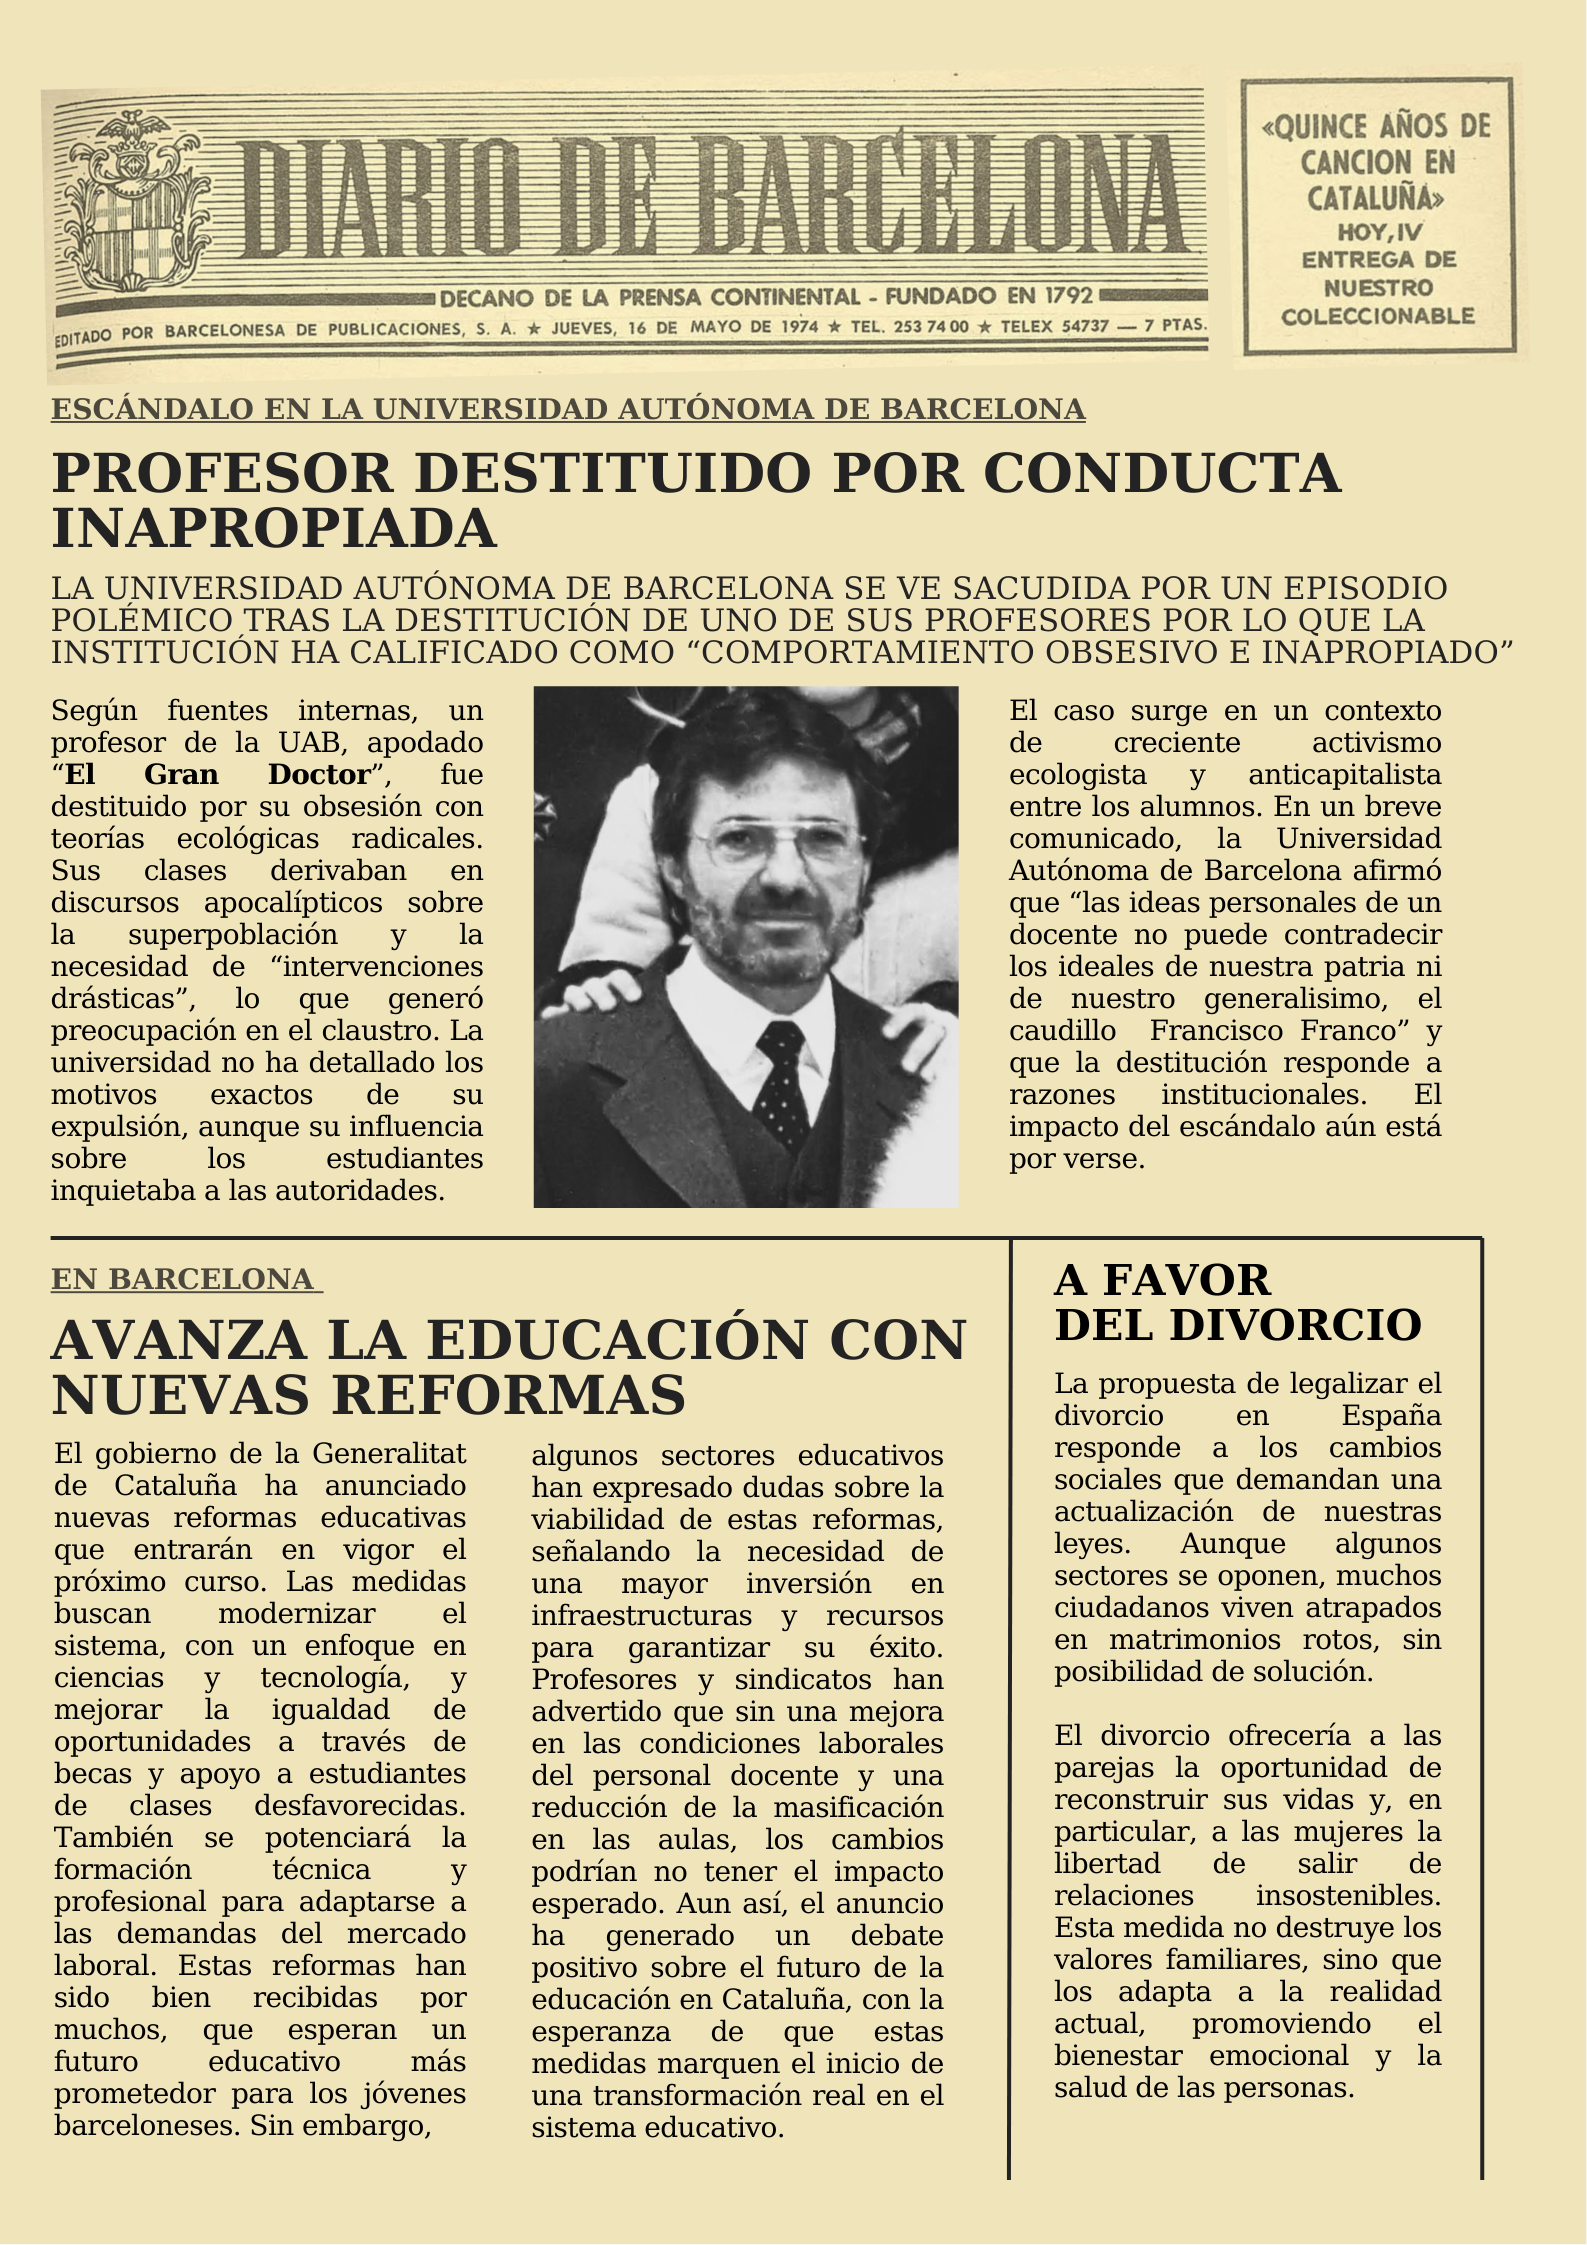
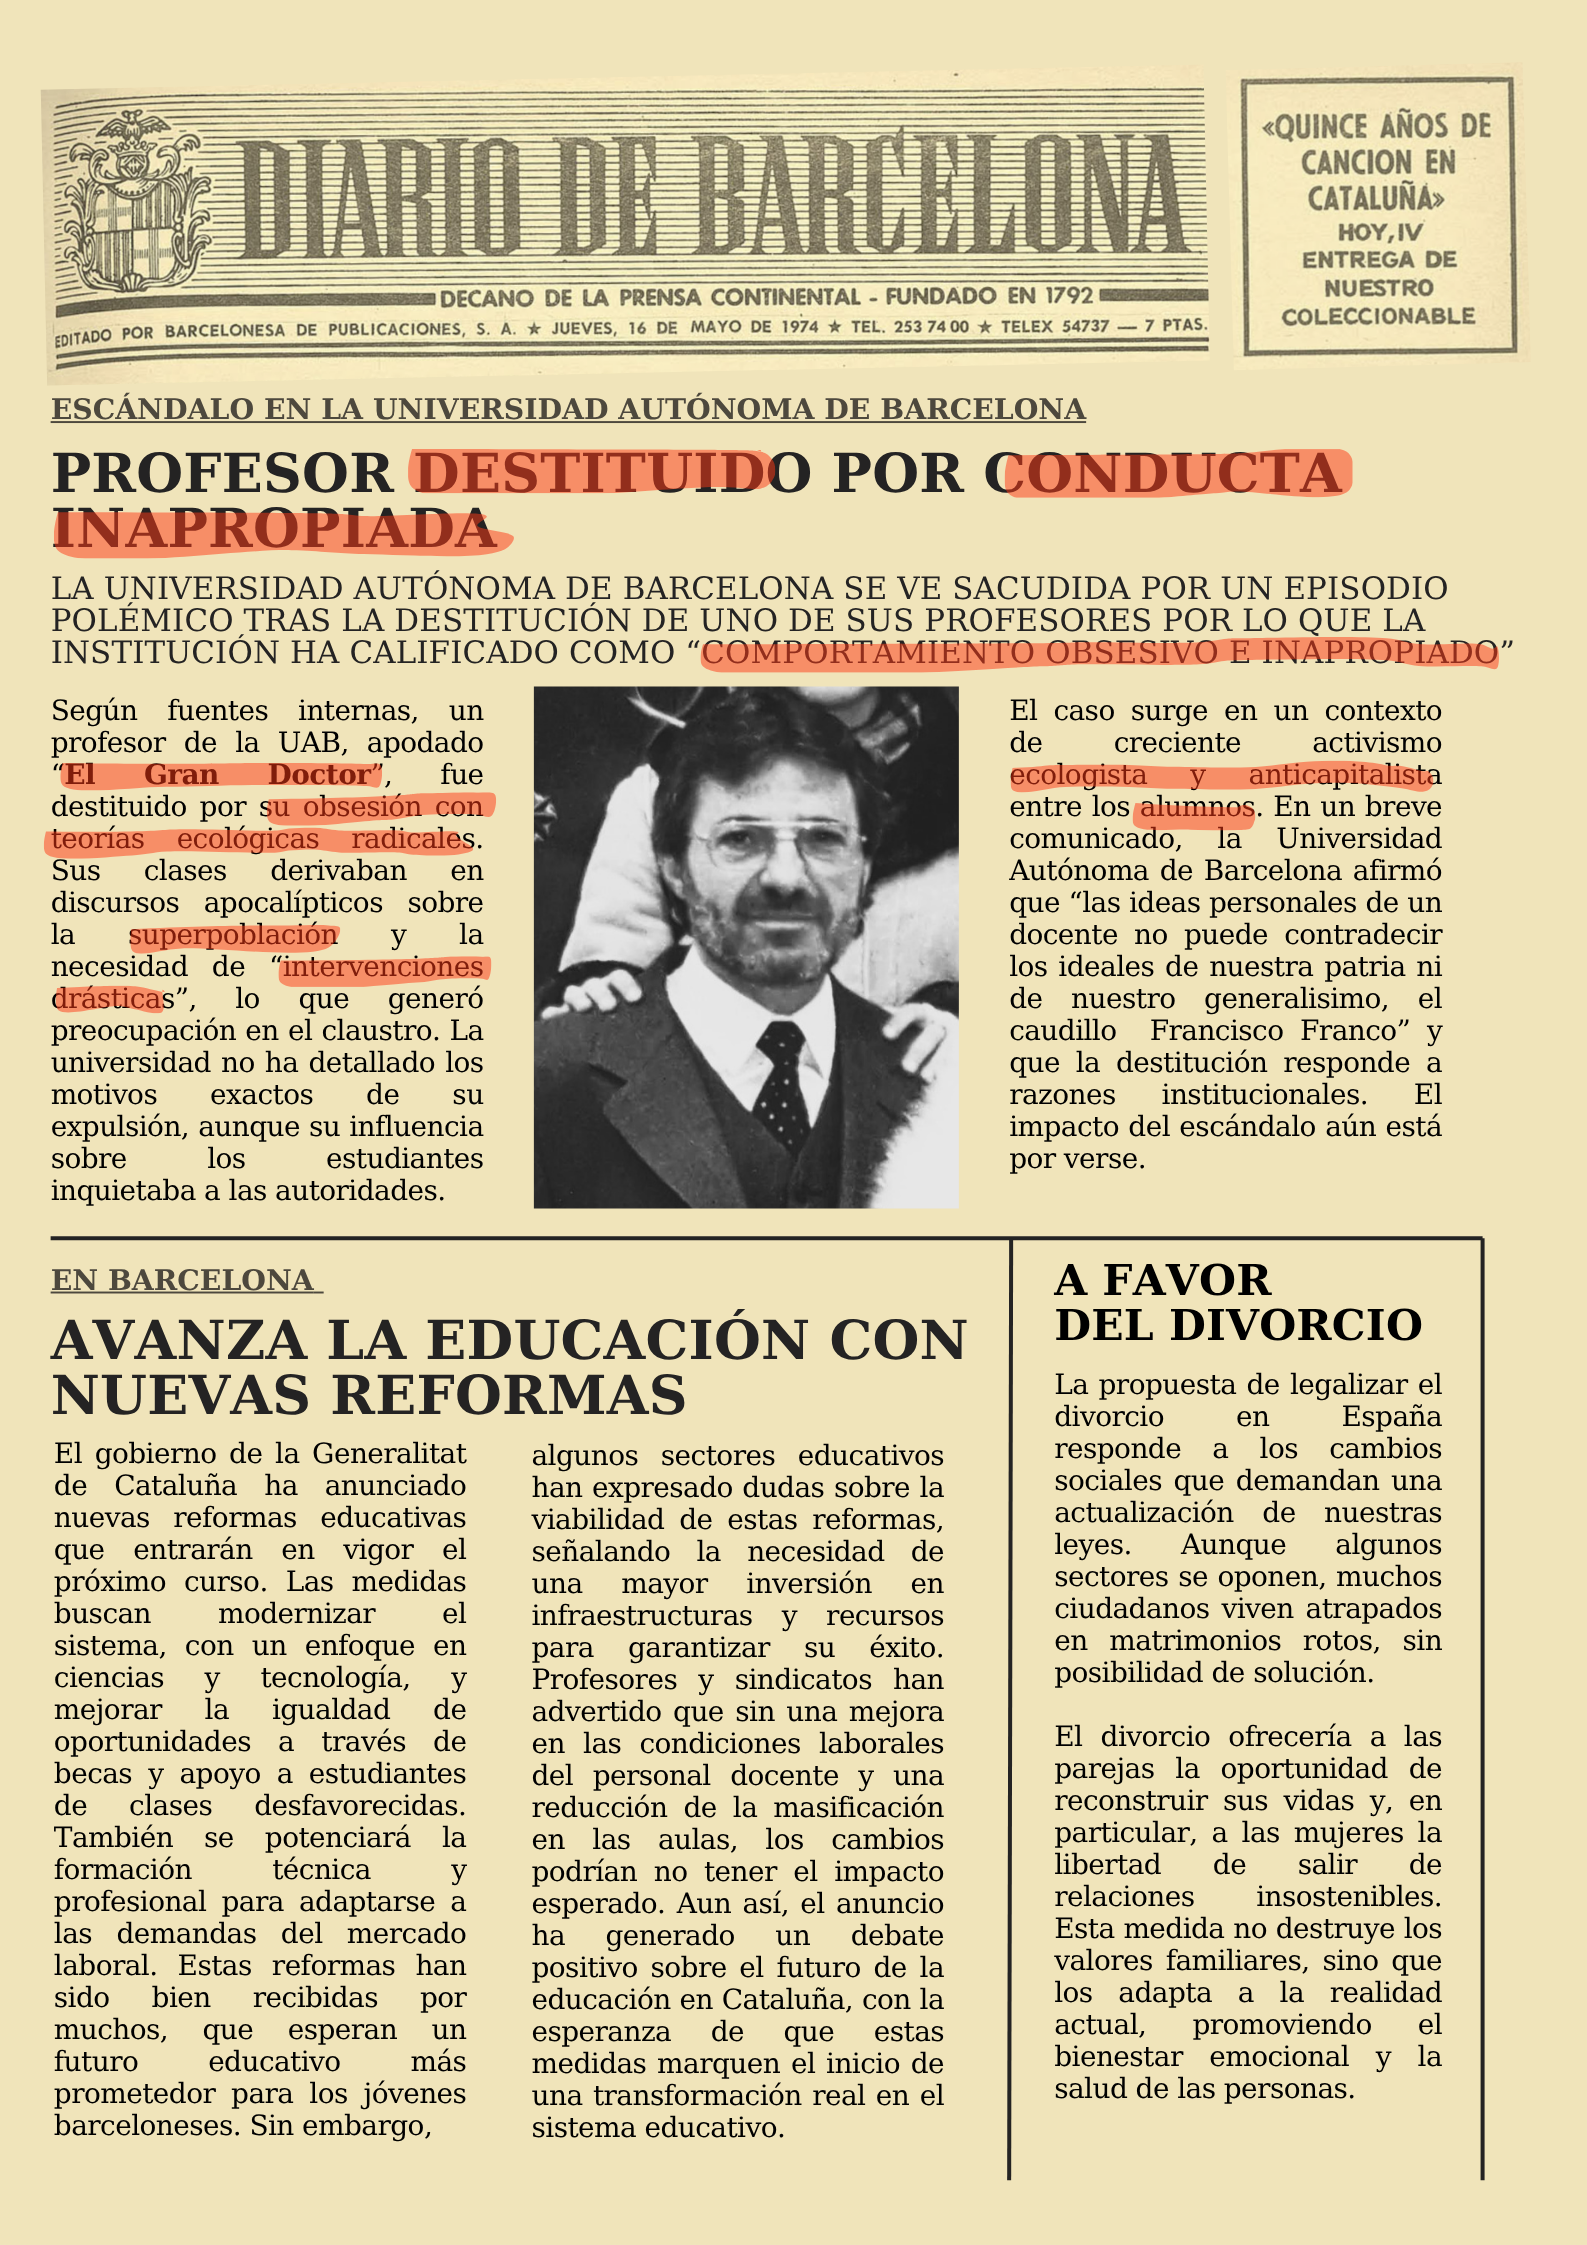
añadidas todas las pistas a investigacioView.vue (falta videos, quizz y borroso).

diff --git a/my-project/src/components/investigacio/investigacioView.vue b/my-project/src/components/investigacio/investigacioView.vue
@@ -59,14 +59,102 @@
          alt="Bloc de notas PISTA 4"
          class="w-2/5 max-h-[90vh] object-contain">
     <img src="../../assets/img/investigacio/noticiaPista4.png"
-         alt="Bloc de notes en blanc"
-         class="w-2/5 max-h-[70vh] object-contain">
+         alt="Noticia pista 4"
+         class="w-2/5 max-h-[80vh] object-contain">
     </div>
   </div>
 <!--  PISTA 5-->
 <div class="h-screen w-screen p-4 flex flex-col">
 <!-- FALTA VIDEO CAMARA OCULTA-->
 </div>
+<!--  AQUI QUIZZ JOC D'OPCIONS TIPO TEST, PER DESBLOQUEJAR SEGÜENT TRAM-->
+  <!--  PISTA 6-->
+<div class="h-screen w-screen p-4 flex flex-col">
+<!-- FALTA VIDEO VLOG 2 amigo de raquel pa sacar info-->
+</div>
+  <!-- PISTA 7 -->
+<div class="h-screen w-screen p-4 flex flex-col overflow-auto">
+  <h1 style="font-family: 'Roboto Mono'" class="text-3xl text-blue-700 text-center mt-7 font-bold">
+    PISTA 7
+  </h1>
+  <div class="flex-1 flex flex-col md:flex-row justify-center items-center w-full gap-4 mt-6 px-2">
+    <img src="../../assets/img/investigacio/informePista7.png"
+         alt="Informe pista 7"
+         class="w-full md:w-2/5 max-h-[80vh] object-contain">
+
+    <p style="font-family: 'Roboto Mono'"
+       class="text-white text-center md:text-center text-lg md:text-lg w-full md:w-5/12 px-4">
+      No puc dir com ho he aconseguit, però he posat les mans en uns informes disciplinaris del professorat de la UAB… d’aquells anys foscos de la dictadura franquista.
+      I deixa’m dir-te que això ho canvia tot.
+      <br><br>
+      Resulta que el misteriós <span class="text-red-700">Gran Doctor</span> és, en realitat, <span class="text-red-700">Robert Marçal</span>. Un professor que va ser expulsat
+      de la universitat. Segons els informes, en Marçal es va plantar contra el règim. Defensava creences que, en aquella època, eren un veritable escàndol. Oblida’t del Déu cristià
+      de sempre; ell parlava d’una altra cosa. Una idea molt diferent: la veneració d’una <span class="text-red-700">Mare Terra</span>.
+      <br><br>
+      I això no és tot. Aquest concepte està molt lligat a la filosofia <span class="text-red-700">d’ECO</span>. Les seves arrels venen directament de les idees d’en Marçal. He
+      seguit llegint articles i resulta que els seus alumnes es referien a ell com <br><span class="text-red-700">“El gran Doctor”</span>.
+      Crec que ell va <span class="text-red-700">fundar ECO</span> als anys 70.
+      <br><br>
+      <span class="text-blue-700">Però, què va passar després? Com es va convertir tot això en aquesta secta?</span>
+      <br><br>
+      Encara em falten peces del trencaclosques, però cada vegada estic més a prop...
+    </p>
+  </div>
+</div>
+  <!--  PISTA 8-->
+<div class="h-screen w-screen p-4 flex flex-col">
+<!-- FALTA VIDEO VLOG 3-->
+</div>
+  <!-- PISTA 9 -->
+<div class="h-screen w-screen p-4 flex flex-col overflow-auto">
+  <h1 style="font-family: 'Roboto Mono'" class="text-3xl text-blue-700 text-center mt-7 font-bold">
+    PISTA 9
+  </h1>
+  <div class="flex-1 flex flex-col md:flex-row justify-center items-center w-full gap-4 mt-6 px-2">
+    <p style="font-family: 'Roboto Mono'"
+       class="text-white text-center md:text-center text-lg md:text-lg w-full md:w-5/12 px-4">
+      He estat investigant més sobre <span class="text-red-700">Robert Marçal</span>, aquest tal
+      <span class="text-red-700">Gran Doctor</span>, però, sincerament, és com intentar encaixar un trencaclosques amb peces que falten.
+      No hi ha gaire informació clara sobre ell.
+      <br><br>
+      Tot i això, he trobat un article. Està escrit per un antic estudiant seu, algú que defensava que l’haurien d’haver <span class="text-red-700">readmès</span>
+      a la UAB. Segons aquest testimoni,
+      en Marçal era un professor vocacional, d’aquells que viuen per ensenyar. La gent que el coneixia l’admirava molt. Però ja sabem com va acabar.
+      <br><br>
+      El van acomiadar. Les seves idees anaven en contra del règim franquista. No va ser per la seva manera d’ensenyar, sinó perquè es <span class="text-red-700">negava a seguir les normes
+      del sistema.</span>
+      Però aquí ve la part estranya: després del seu acomiadament, Marçal desapareix completament. Puf. Ni rastre. Ningú sap què li va passar. És com si el tio s’hagués
+      <span class="text-red-700">esfumat del món.</span>
+    </p>
+    <img src="../../assets/img/investigacio/pista9.png"
+         alt="Pista 9"
+         class="w-full md:w-2/5 max-h-[80vh] object-contain">
+  </div>
+</div>
+    <!--  PISTA 10-->
+<div class="h-screen w-screen p-4 flex flex-col">
+<!-- FALTAN FOTOS PISTA 10-->
+</div>
+     <!--  PISTA 11-->
+<div class="h-screen w-screen p-4 flex flex-col">
+<!-- FALTA VLOG 4: LLIBRE GRAN DOCTOR-->
+</div>
+     <!--  PISTA 12-->
+<div class="h-screen w-screen p-4 flex flex-col">
+<!-- FALTA VLOG 5: BIOGRAFIA JAUME MARTÍ-->
+</div>
+<div class="h-screen w-screen p-4 flex flex-col overflow-auto items-center justify-center relative">
+  <h1 style="font-family: 'Roboto Mono'" class="text-3xl text-blue-700 text-center font-bold absolute top-12">
+    PISTA 12
+  </h1>
+
+  <div class="flex-1 flex flex-col md:flex-row justify-center items-center w-full gap-4 px-2">
+    <img src="../../assets/img/investigacio/pista12.png"
+         alt="Pista 9"
+         class="h-[65vh] w-auto max-w-full object-contain">
+  </div>
+</div>
+<!--  FALTAN BLOGS-->
 </template>
 
 <script setup lang="ts">
